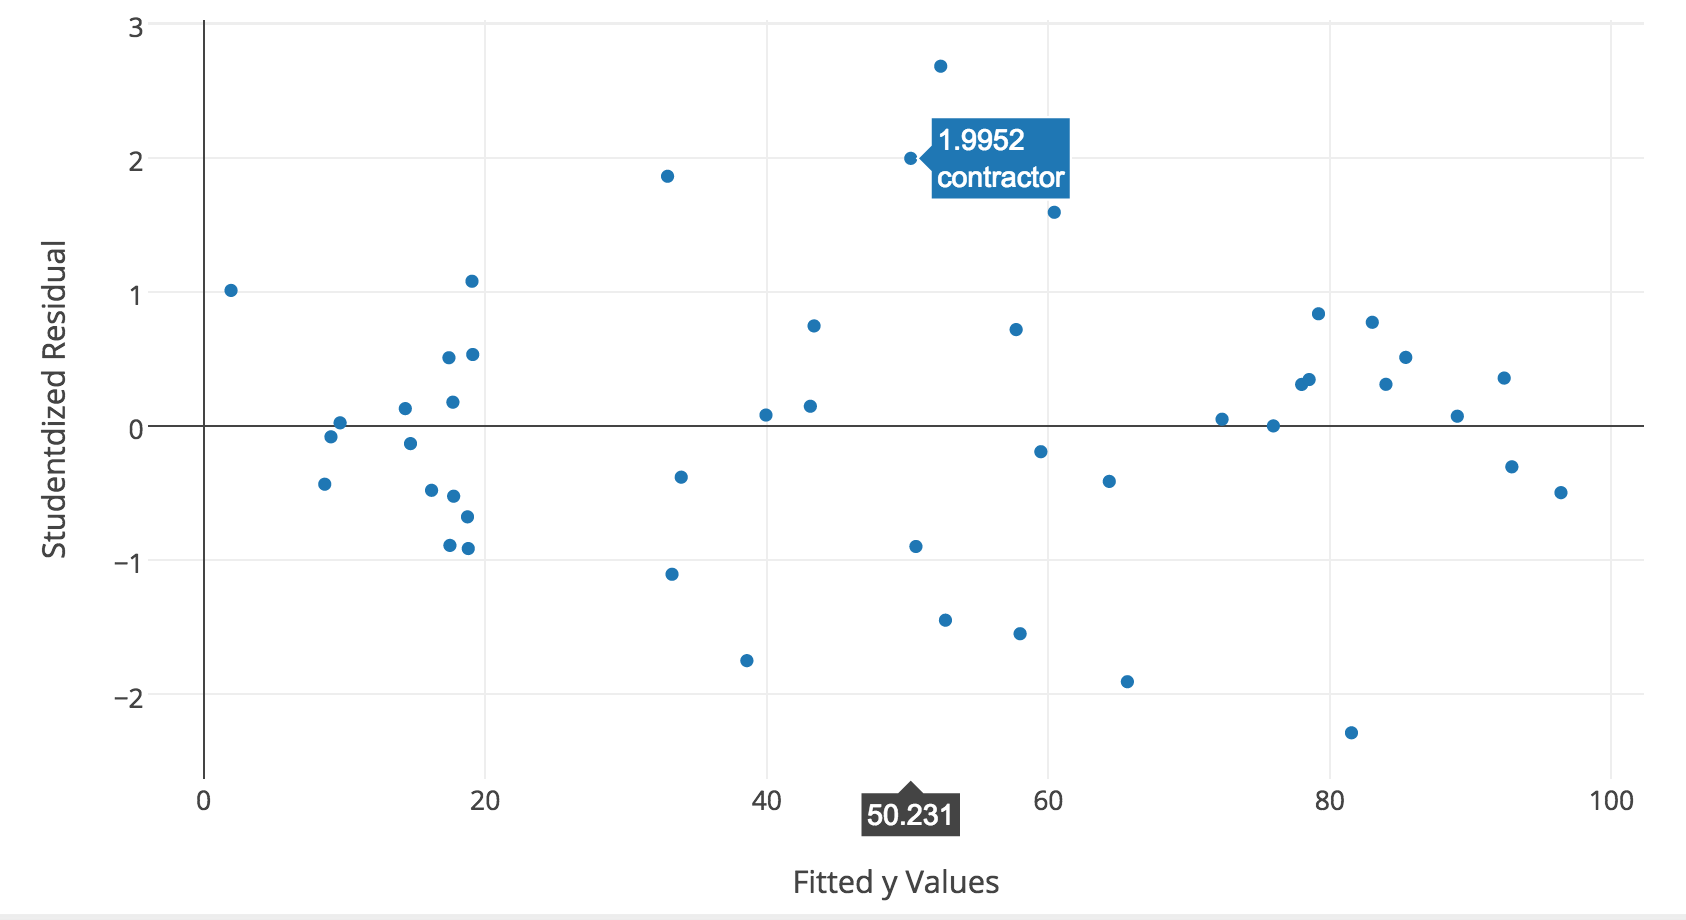
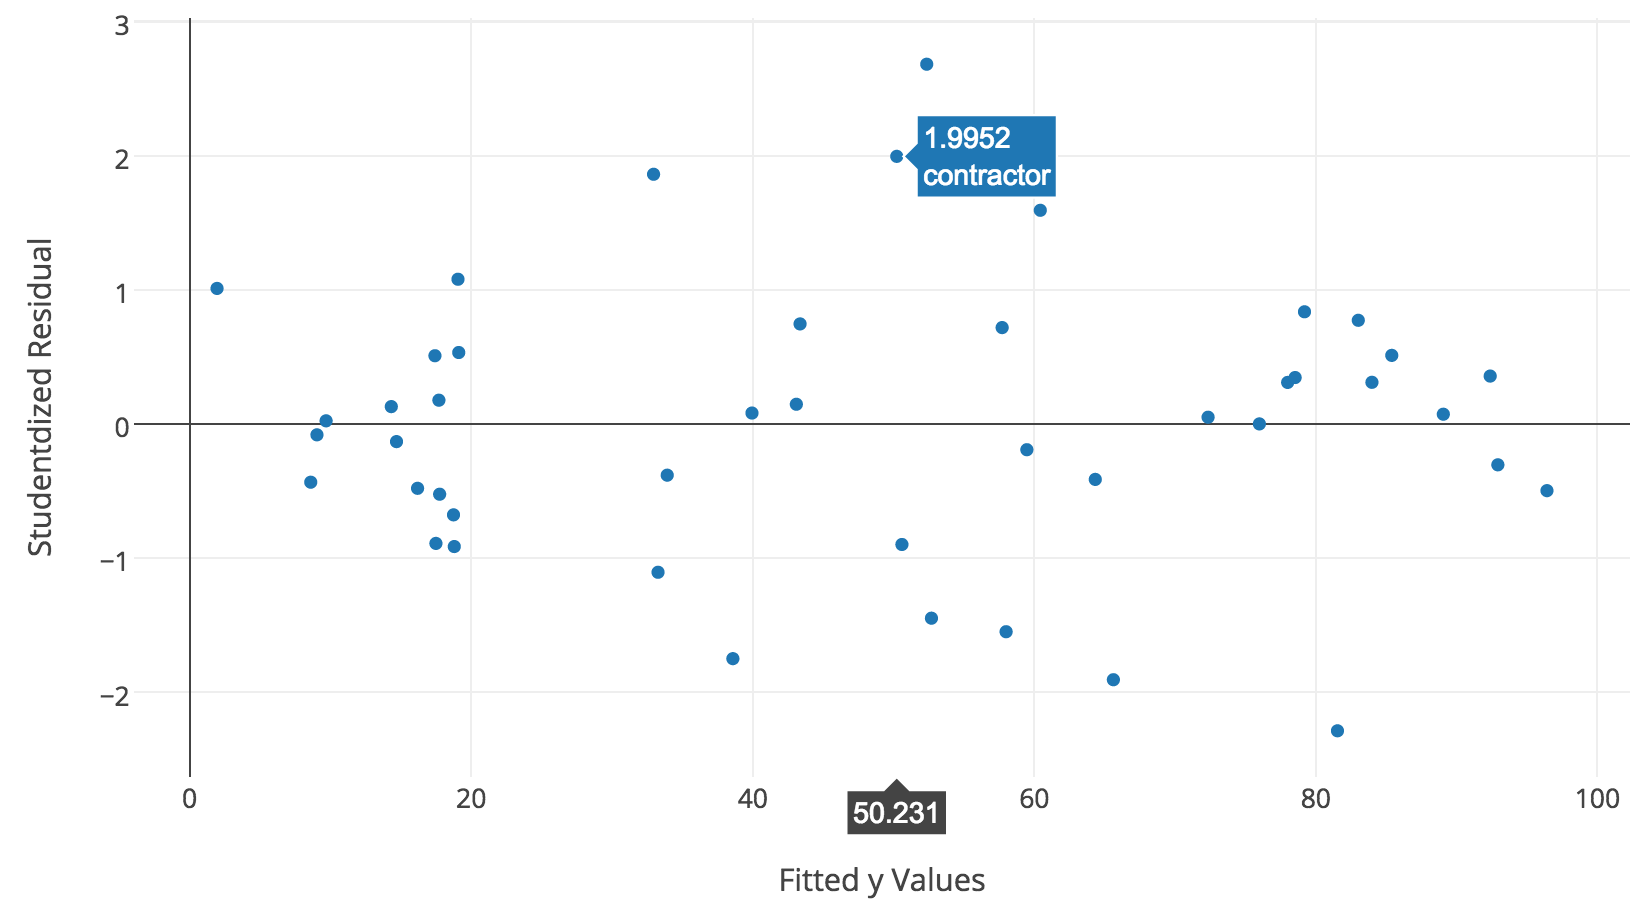
update

diff --git a/pair.md b/pair.md
@@ -54,7 +54,7 @@ Using the fitted model above, answer the following questions
      you can easily refer back to the points with large residuals 
      (`> 2` or `< -2`)**
    
-   <div align="center">
+   <div align="center" width="400px">
       <img src="images/plotly_resid.png">
    </div>
 
